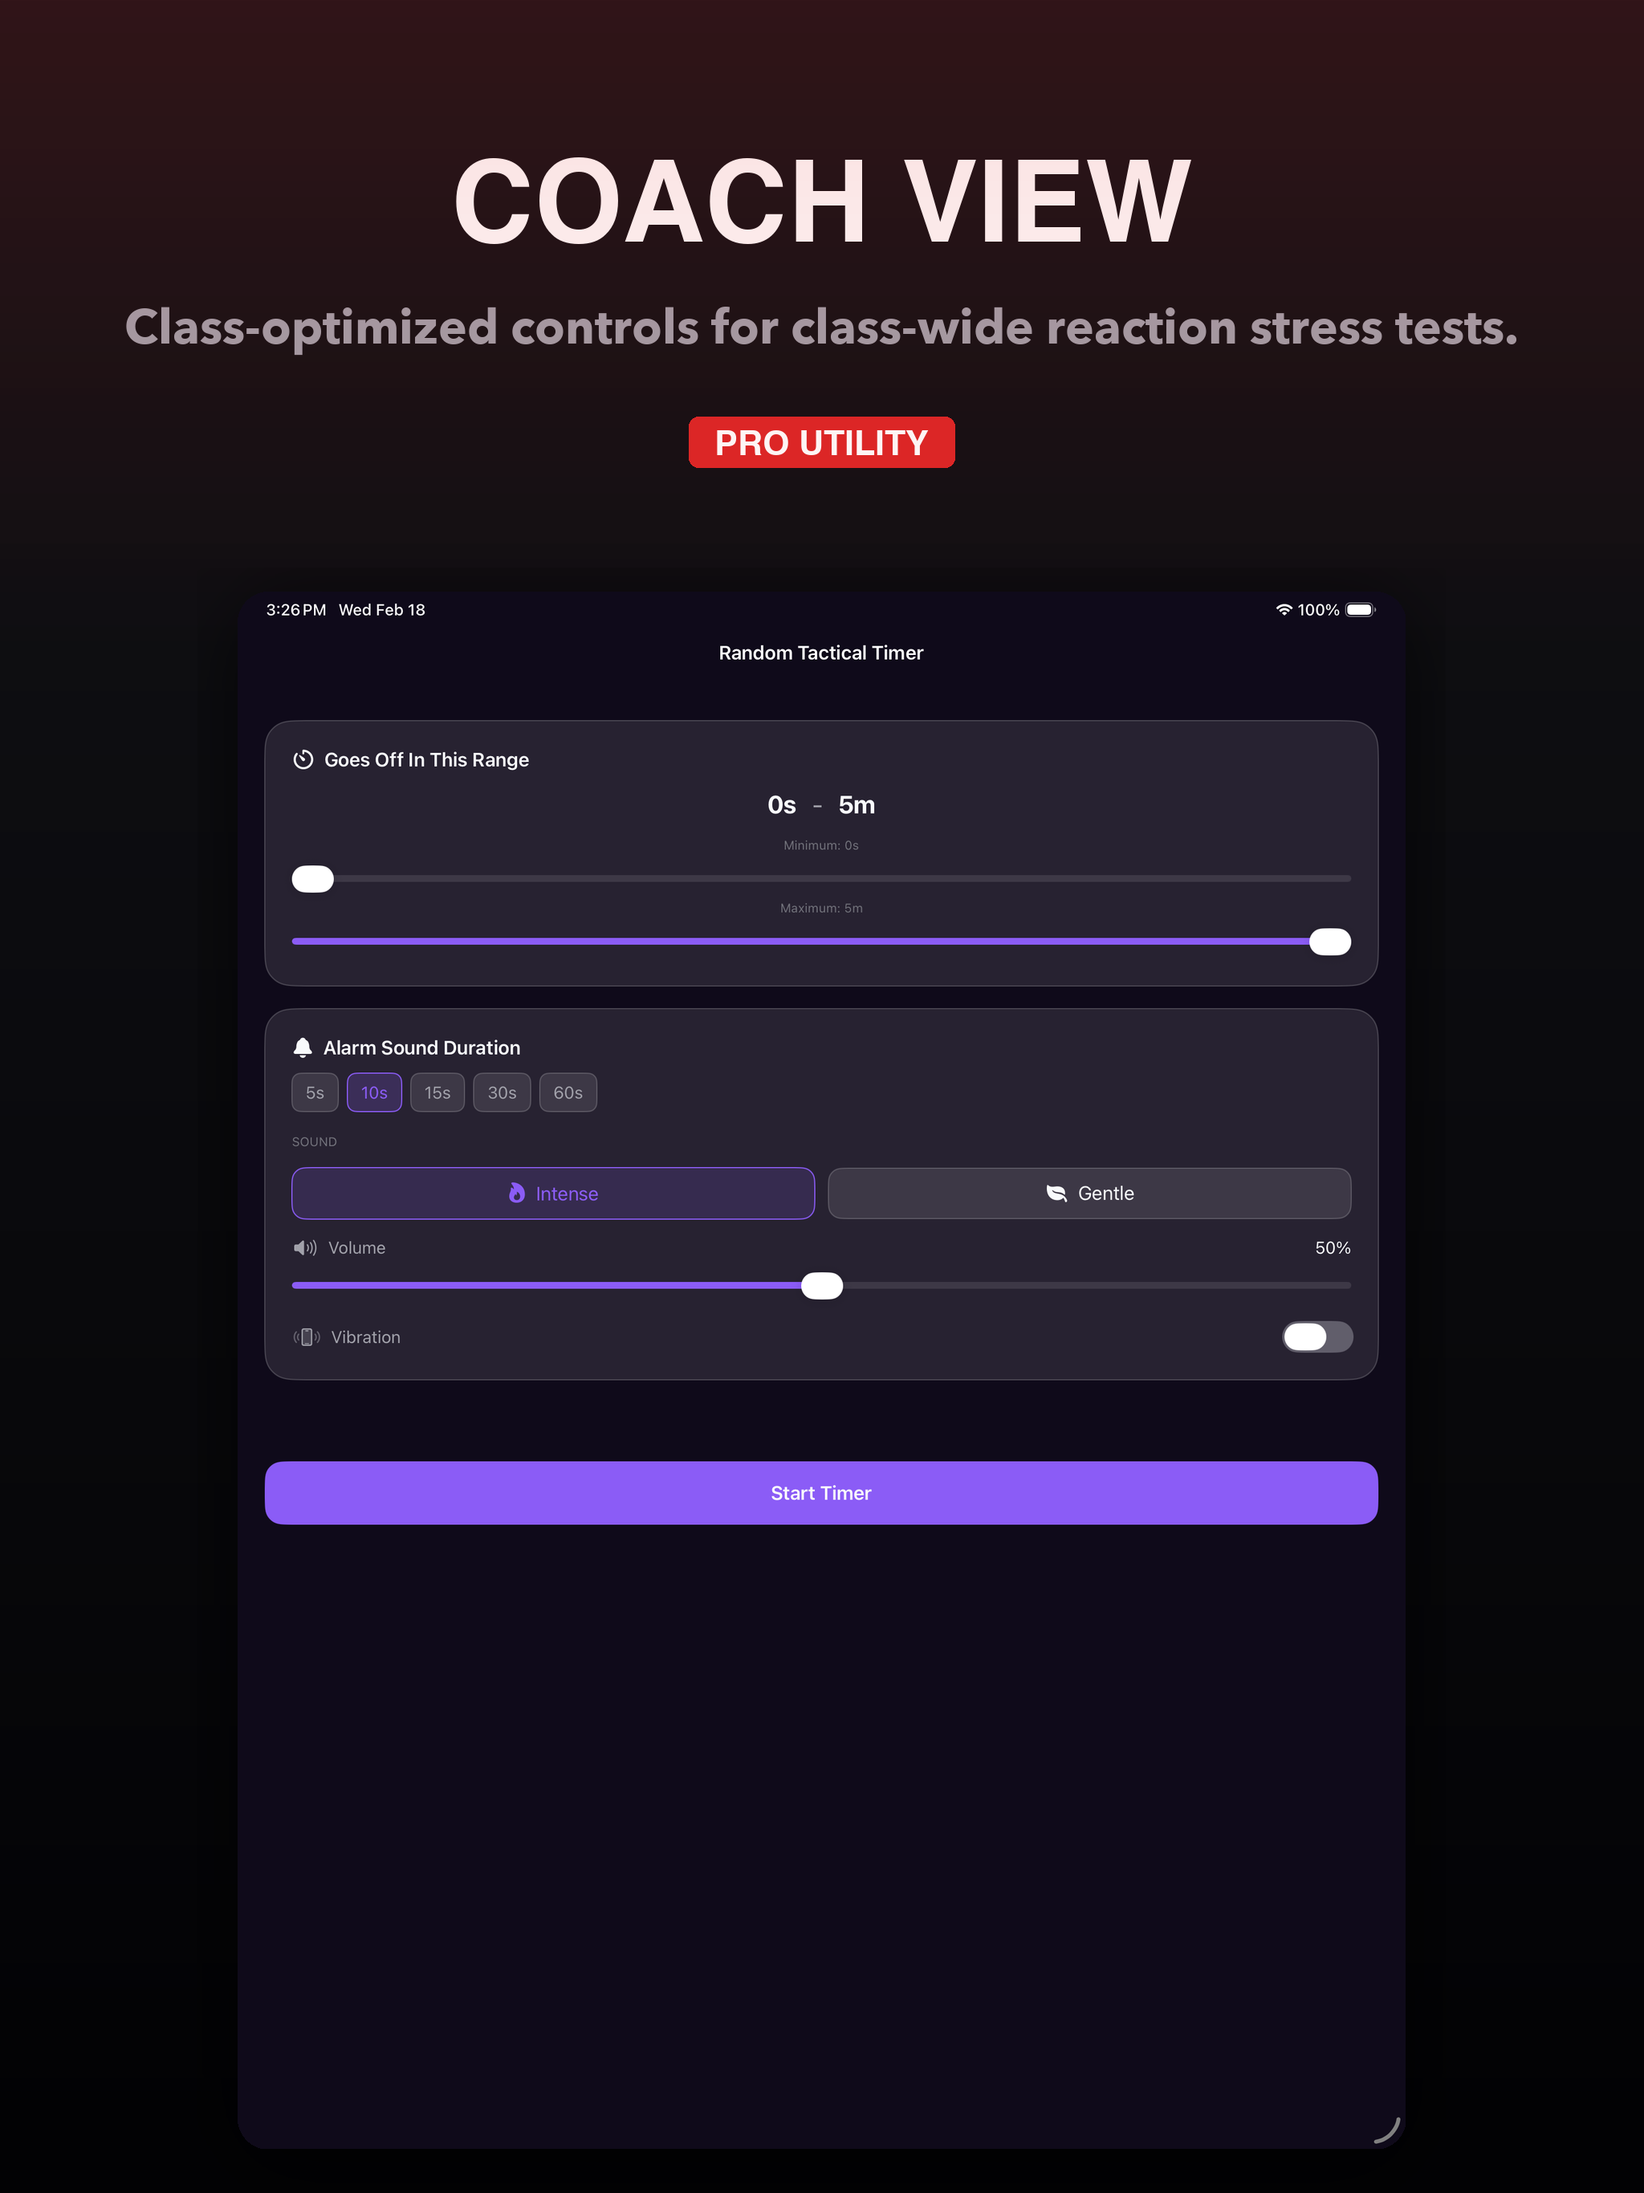
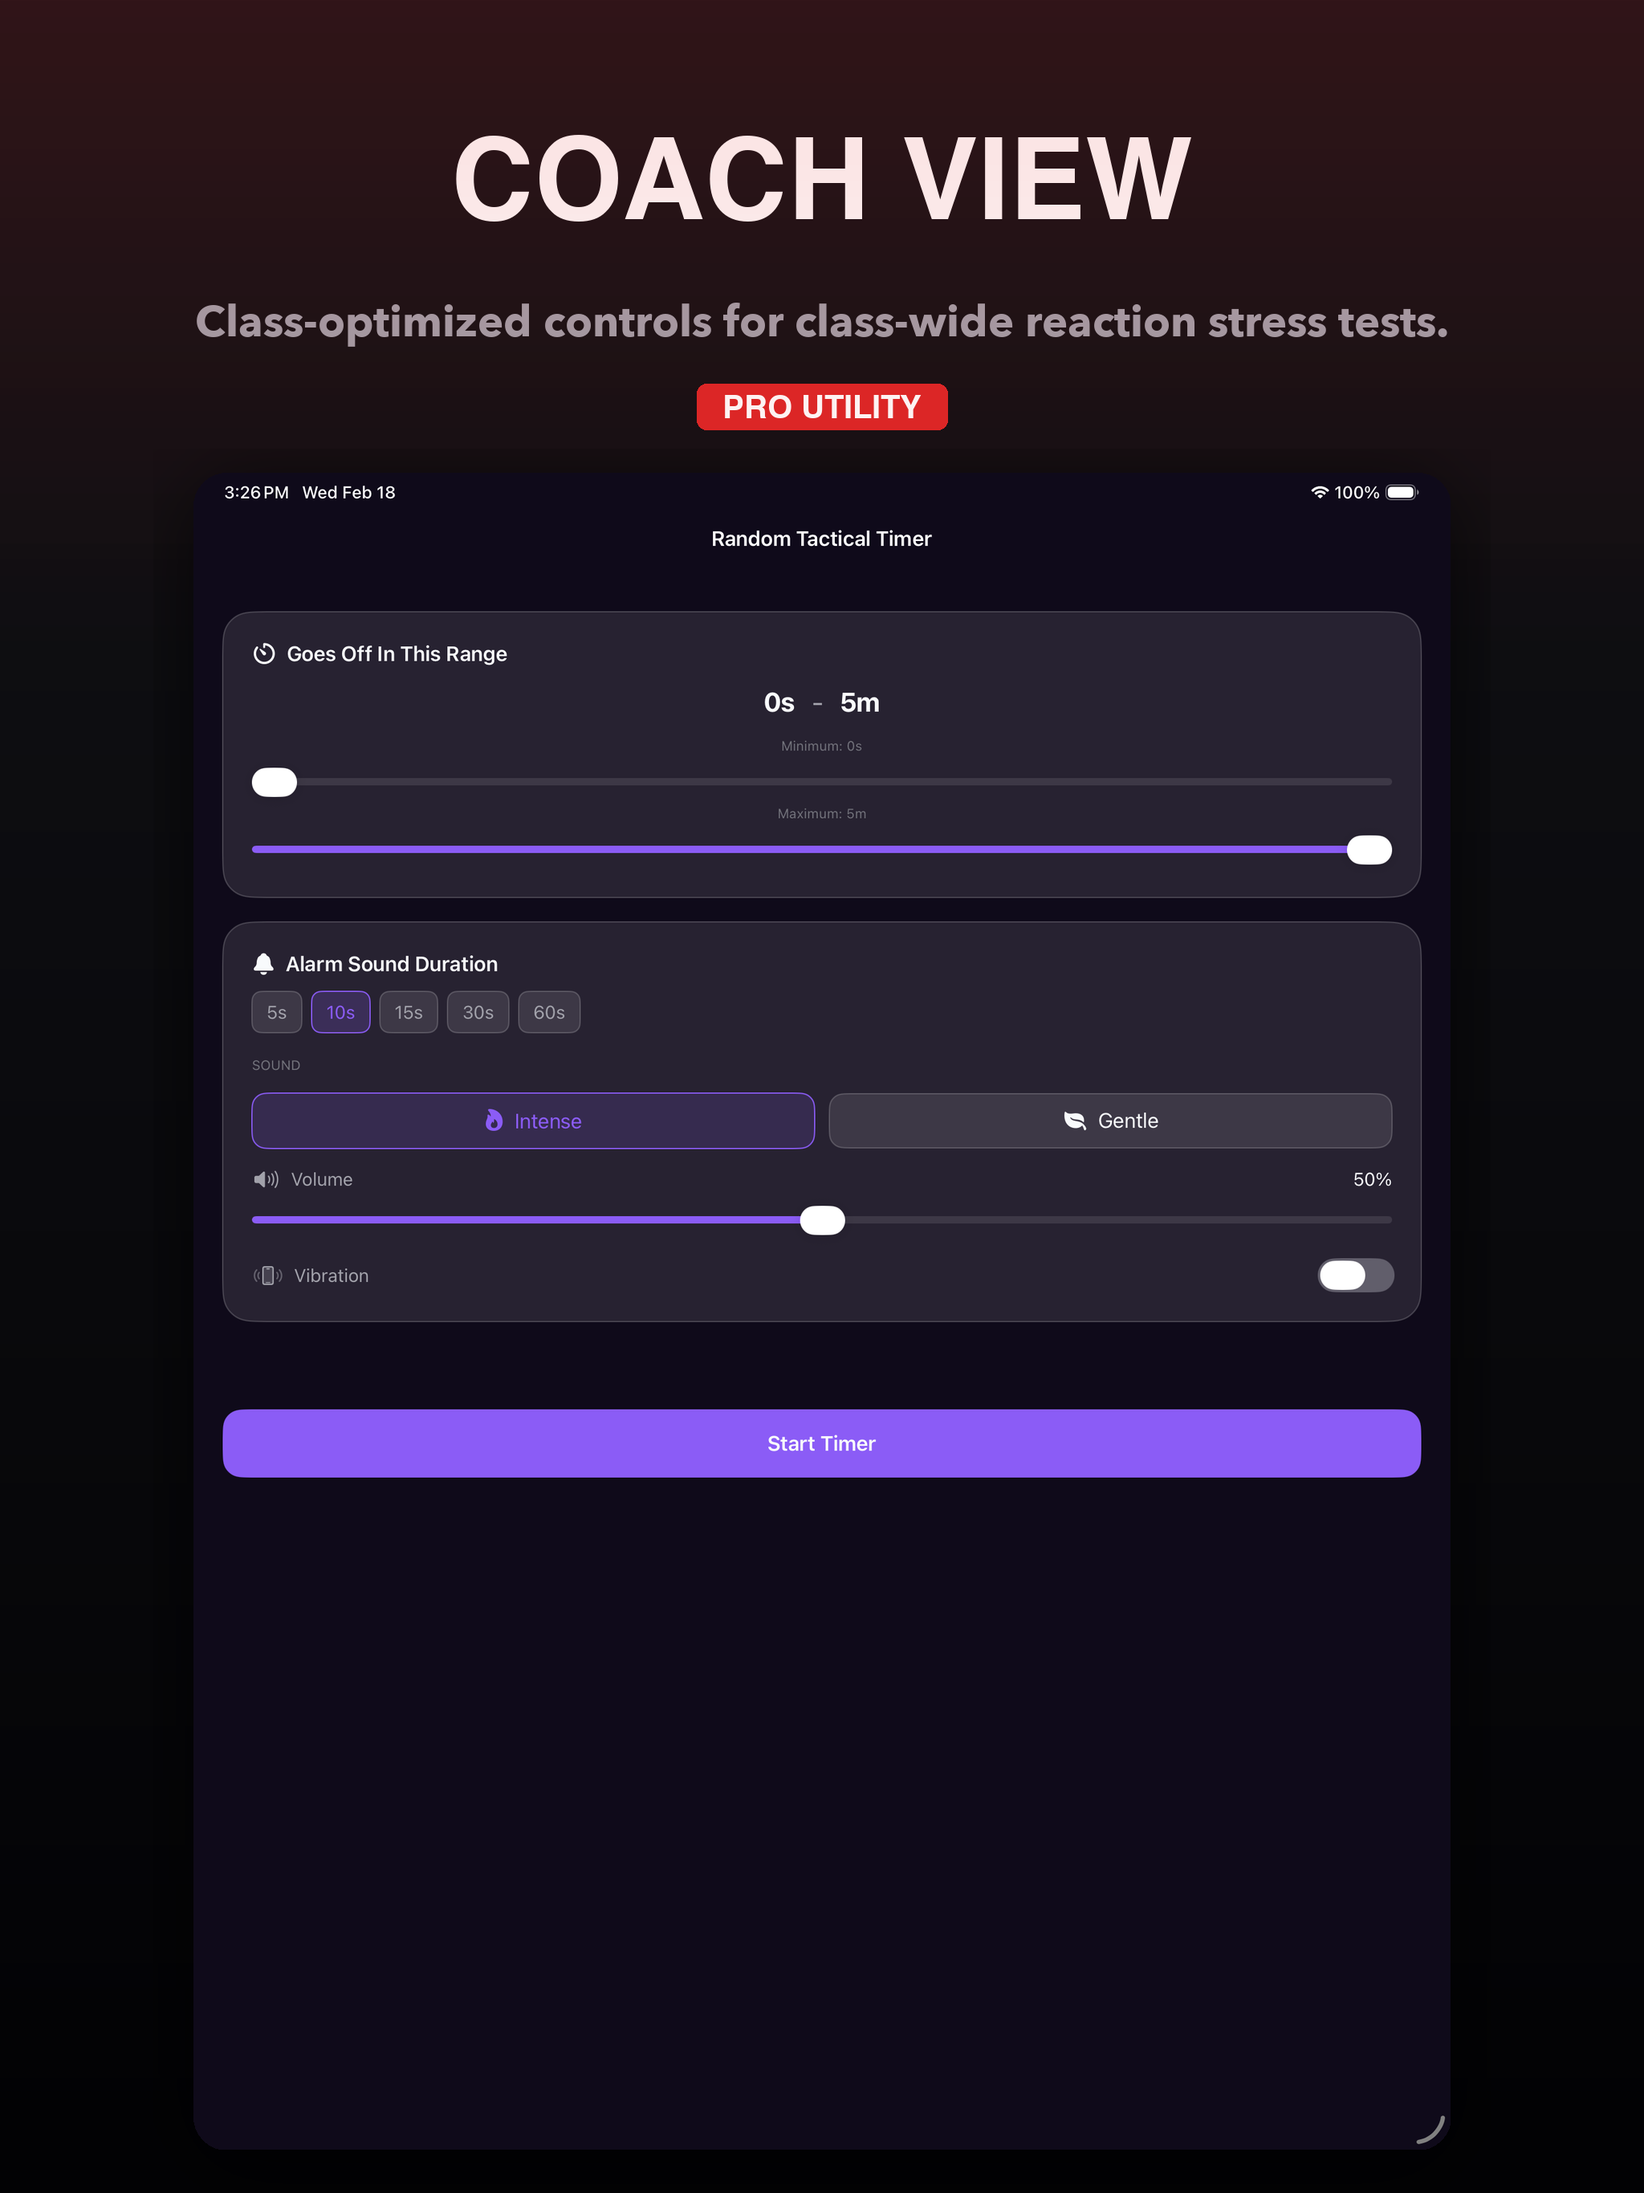
fix(store): fix text overflow and wrong source for screenshot 1
- Add word-wrap + flow-based layout so title/subtitle/badge never overlap
- Replace originals/1_setup.png (was Android USB screen) with correct app screenshot
- ui_top now follows actual header content height, not hardcoded 27%

diff --git a/scripts/generate_ios_store_creatives.py b/scripts/generate_ios_store_creatives.py
@@ -116,6 +116,46 @@ def _load_font(size: int, *, bold: bool = False) -> ImageFont.FreeTypeFont | Ima
     return ImageFont.load_default()
 
 
+def _wrap_text(text: str, font: ImageFont.FreeTypeFont | ImageFont.ImageFont, max_width: int) -> List[str]:
+    """Wrap text to fit within max_width pixels."""
+    words = text.split()
+    lines: List[str] = []
+    current = ""
+    for word in words:
+        test = f"{current} {word}".strip()
+        bbox = font.getbbox(test)
+        if bbox[2] - bbox[0] <= max_width:
+            current = test
+        else:
+            if current:
+                lines.append(current)
+            current = word
+    if current:
+        lines.append(current)
+    return lines
+
+
+def _draw_text_wrapped(
+    draw: ImageDraw.Draw,
+    text: str,
+    font: ImageFont.FreeTypeFont | ImageFont.ImageFont,
+    canvas_w: int,
+    y: int,
+    fill: tuple,
+    margin: int = 60,
+) -> int:
+    """Draw word-wrapped centered text. Returns y coordinate after last line."""
+    max_w = canvas_w - margin * 2
+    lines = _wrap_text(text, font, max_w)
+    line_spacing = int(font.size * 1.2) if hasattr(font, "size") else 40
+    for line in lines:
+        bbox = draw.textbbox((0, 0), line, font=font)
+        lw = bbox[2] - bbox[0]
+        draw.text(((canvas_w - lw) // 2, y), line, font=font, fill=fill)
+        y += line_spacing
+    return y
+
+
 def _draw_gradient(draw: ImageDraw.Draw, size: Tuple[int, int], top_color: Color, bottom_color: Color) -> None:
     w, h = size
     for y in range(h):
@@ -142,33 +182,32 @@ def _render_one(source: Image.Image, text: CreativeText, is_ipad: bool = False) 
         alpha = int(40 * (1 - (y / glow_h)))
         glow_draw.line([(0, y), (w, y)], fill=(220, 38, 38, alpha))
 
-    # Header text
+    # Header text — flow-based layout so wrapping never causes overlap
     title_size = max(84, int(h * 0.052))
-    subtitle_size = max(38, int(h * 0.022))
+    subtitle_size = max(36, int(h * 0.020))
     title_font = _load_font(title_size, bold=True)
     subtitle_font = _load_font(subtitle_size, bold=False)
+    badge_font = _load_font(max(30, int(h * 0.015)), bold=True)
 
-    title_bbox = draw.textbbox((0, 0), text.title, font=title_font)
-    title_w = title_bbox[2] - title_bbox[0]
-    draw.text(((w - title_w) // 2, int(h * 0.07)), text.title, font=title_font, fill=(255, 255, 255))
-
-    subtitle_bbox = draw.textbbox((0, 0), text.subtitle, font=subtitle_font)
-    subtitle_w = subtitle_bbox[2] - subtitle_bbox[0]
-    draw.text(((w - subtitle_w) // 2, int(h * 0.135)), text.subtitle, font=subtitle_font, fill=(161, 161, 170))
+    y = int(h * 0.06)
+    y = _draw_text_wrapped(draw, text.title, title_font, w, y, (255, 255, 255))
+    y += int(h * 0.012)
+    y = _draw_text_wrapped(draw, text.subtitle, subtitle_font, w, y, (161, 161, 170))
+    y += int(h * 0.018)
 
     # Tactical Red Badge
-    badge_font = _load_font(max(32, int(h * 0.016)), bold=True)
     badge_bbox = draw.textbbox((0, 0), text.badge, font=badge_font)
     bw, bh = badge_bbox[2] - badge_bbox[0], badge_bbox[3] - badge_bbox[1]
-    pad_x, pad_y = 32, 16
+    pad_x, pad_y = 32, 14
     bx1 = (w - (bw + pad_x * 2)) // 2
-    by1 = int(h * 0.19)
+    by1 = y
     bx2, by2 = bx1 + bw + pad_x * 2, by1 + bh + pad_y * 2
     draw.rounded_rectangle((bx1, by1, bx2, by2), radius=12, fill=(220, 38, 38))
     draw.text((bx1 + pad_x, by1 + pad_y - 2), text.badge, font=badge_font, fill=(255, 255, 255))
+    y = by2 + int(h * 0.02)
 
     # App UI Placement: fit source into available space below header WITHOUT clipping
-    ui_top = int(h * 0.27)
+    ui_top = y
     ui_margin = int(w * 0.06)
     target_w = w - (ui_margin * 2)
     available_h = h - ui_top - int(h * 0.02)  # 2% bottom padding
